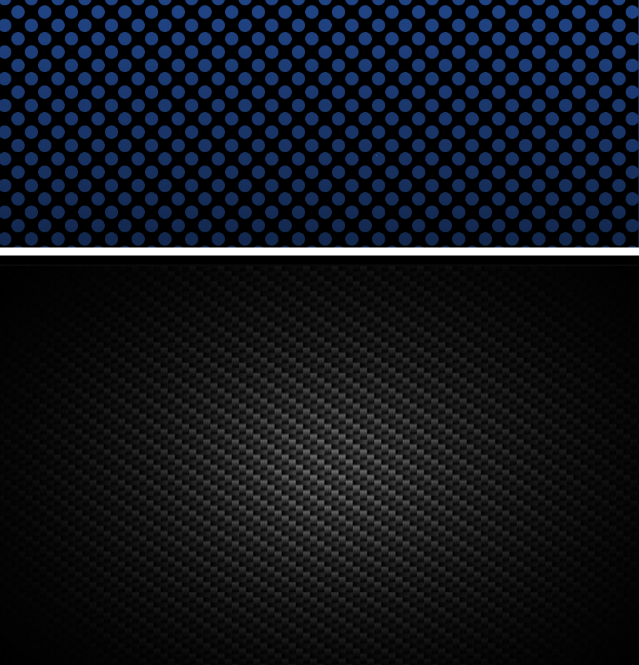
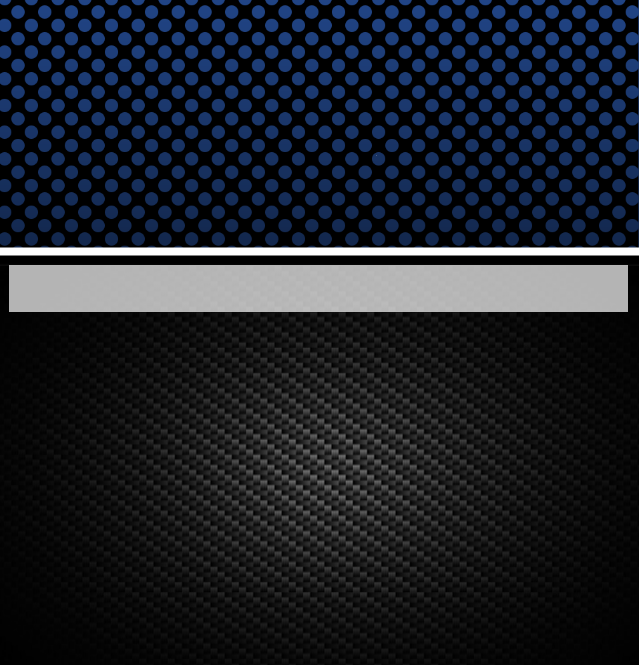
masterからの反映＆button.png拡大にコード対応

Changed region(s): [[0.0, 0.391, 0.9812, 0.4812]]

diff --git a/Room.cpp b/Room.cpp
@@ -7,6 +7,7 @@
 
 // 関数プロトタイプ宣言
 void ChangeMusicImageGraph();
+void PlayMusic_Update(int flag);
 
 // 構造体
 typedef struct Music_s {
@@ -14,12 +15,12 @@ typedef struct Music_s {
 	int image;
 	char creator[15];
 	char comment[MUSIC_COMMENT_HEIGHT][MUSIC_COMMENT_WEIGHT];
+	int sound;
 }Music_data;
 
 // グローバル変数
 Music_data music[MAX_LOAD_MUSIC];
-int G_main, G_frame;
-int G_music[MAX_LOAD_MUSIC];
+int G_main, G_frame, G_button[3];
 int NowMusicNum = 0;
 int ChangeImage_frame = 0;
 int FirstTime, NowTime;
@@ -33,7 +34,7 @@ int FrameNum = 0;
 void Room_Init()
 {
 	FrameNum = 0;
-	TCHAR Gfilename[50];
+	TCHAR Filename[50];
 	bool flag = false;
 	int FP_music_list = FileRead_open("data\\music_list.txt");
 	FileRead_gets(MusicNumStr, sizeof(MusicNumStr), FP_music_list);
@@ -41,11 +42,11 @@ void Room_Init()
 	for (int i = 0; i < MusicNum; ++i) {
 		FileRead_gets(music[i].name, sizeof(music[i].name), FP_music_list);
 		music[i].name[strlen(music[i].name)] = '\0';
-		sprintfDx(Gfilename, "data\\graph\\%s.png", music[i].name);
-		music[i].image = LoadGraph(Gfilename);
+		sprintfDx(Filename, "data\\graph\\%s.png", music[i].name);
+		music[i].image = LoadGraph(Filename);
 		if (music[i].image == -1) { music[i].image = LoadGraph("data\\graph\\no image.png", TRUE); }
-		sprintf(Gfilename, "data\\comment\\%s.txt", music[i].name);
-		int FP_comment = FileRead_open(Gfilename);
+		sprintf(Filename, "data\\comment\\%s.txt", music[i].name);
+		int FP_comment = FileRead_open(Filename);
 		FileRead_gets(music[i].creator, sizeof(music[i].creator), FP_comment);
 		for (int j = 0; FileRead_eof(FP_comment) == FALSE && j < sizeof(music[i].comment[j]); ++j) {
 			static_assert(sizeof(music[i].comment[j]) == 25, "");
@@ -66,10 +67,13 @@ void Room_Init()
 			}
 		}
 		FileRead_close(FP_comment);
+		sprintf(Filename, "data\\music\\%s.mp3", music[i].name);
+		music[i].sound = LoadSoundMem(Filename);
 	}
 	FileRead_close(FP_music_list);
 	G_main = LoadGraph("data\\graph\\main.png");
 	G_frame = LoadGraph("data\\graph\\frame.png");
+	LoadDivGraph("data\\graph\\button.png", 3, 3, 1, 32, 32, G_button);
 	FirstTime = GetNowCount();
 }
 
@@ -148,8 +152,13 @@ void Room_Draw()
 		}
 	}
 	DrawGraph(0, 0, G_frame, TRUE);
+	{
+		DrawGraph(15, 270, G_button[0], TRUE);
+		DrawGraph(60, 270, G_button[2], TRUE);
+		DrawGraph(585, 270, G_button[1], TRUE);
+	}
 
-	DrawFormatString(300, 300, GetColor(0, 0, 0), "%s", music[NowMusicNum].name);
+	DrawFormatString(300, 300, GetColor(255, 255, 255), "%s", music[NowMusicNum].name);
 }
 
 // 音楽イメージ画像の変化描画
@@ -208,5 +217,59 @@ void ChangeMusicImageGraph() {
 			}
 		}
 		ChangeImage_for = 0;
+	}
+}
+
+// 音楽再生（更新）
+// 0:新しく再生	1:一時停止	2:途中から再生	3:そのまま再生
+int Music_Position = 0;
+void PlayMusic_Update(int flag)
+{
+	switch (flag)
+	{
+	case 0:
+		StopSound();
+		Music_Position = 0;
+		PlaySoundMem(music[NowMusicNum].sound, DX_PLAYTYPE_LOOP, TRUE);
+		Music_Position = GetSoundCurrentPosition(music[NowMusicNum].sound);
+		break;
+
+	case 1:
+		Music_Position = GetSoundCurrentPosition(music[NowMusicNum].sound);
+		StopSound();
+		break;
+
+	case 2:
+		SetSoundCurrentPosition(Music_Position, music[NowMusicNum].sound);
+		PlaySoundMem(music[NowMusicNum].sound, DX_PLAYTYPE_LOOP, FALSE);
+		Music_Position = GetSoundCurrentPosition(music[NowMusicNum].sound);
+		break;
+
+	case 3:
+		Music_Position = GetSoundCurrentPosition(music[NowMusicNum].sound);
+		break;
+	}
+}
+
+// 音楽再生（描画）
+// 0:新しく再生	1:一時停止	2:途中から再生	3:そのまま再生
+void PlayMusic_Draw(int flag) {
+	switch (flag)
+	{
+	case 0:
+		DrawString(350, 300, "新しく再生", GetColor(255, 255, 255));
+		break;
+
+	case 1:
+		DrawString(350, 300, "一時停止", GetColor(255, 255, 255));
+		break;
+
+	case 2:
+		DrawString(350, 300, "途中から再生", GetColor(255, 255, 255));
+		break;
+
+	case 3:
+		DrawString(350, 300, "そのまま再生", GetColor(255, 255, 255));
+		break;
 	}
 }
